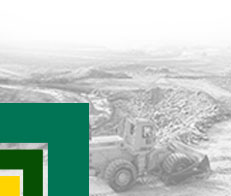
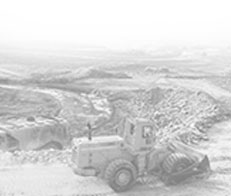
did mobile menu

Changed region(s): [[0.0, 0.5204, 0.3939, 1.0]]

diff --git a/src/style/sections/_aside.scss b/src/style/sections/_aside.scss
@@ -8,11 +8,19 @@
   @include max(700) {
     position: absolute;
     top: 0;
+    right: 0;
     left: 0;
-    transform: translate(-240px, 0);
-    &.active {
-      transform: translate(0px, 0);
+    transition: .5s;
+    width: 100%;
+    height: 60px;
+    overflow: hidden;
+    &.active{
+      height: 100vh;
     }
+    //  transform: translate(-240px, 0);
+    //  &.active {
+    //    transform: translate(0px, 0);
+    //  }
   }
 }
 .aside-open {
@@ -27,9 +35,6 @@
   cursor: pointer;
   background-color: #ffd400;
 
-  @include max(700) {
-    display: flex;
-  }
   span {
     font-family: $font-pt-b;
     font-size: 18px;
@@ -40,27 +45,39 @@
   }
 }
 .aside {
-  //position: absolute;
+  position: relative;
   z-index: 10;
-  //top: -25px;
-  //left: 10px;
   display: flex;
   flex: none;
   flex-direction: column;
   width: 240px;
   min-height: 500px;
   padding: 40px 0;
+  background: url('../img/decor-aside.jpg') 0 100% no-repeat, url('../img/bg-aside.jpg') 0 100% no-repeat/contain;
   background-color: #fff;
-  background-image: url('../img/bg-aside.jpg');
-  background-repeat: no-repeat;
-  background-position: 0 100%;
-  background-size: contain;
+
+  @include max(700) {
+    width: 100%;
+    height: 100vh;
+    padding-top: 70px;
+    text-align: center;
+  }
 }
 
 .aside-logo {
   width: 100%;
   margin-bottom: 20px;
   padding-left: 30px;
+
+  @include max(700) {
+    position: absolute;
+    top: 15px;
+    left: 20px;
+    width: 151px;
+    height: 34px;
+    padding: 0;
+    background-color: #347;
+  }
   img {
     max-width: 100%;
   }
@@ -68,6 +85,7 @@
 .aside-menu__list {
   margin: 0;
   padding: 0;
+
 }
 .aside-menu__item {
   position: relative;
@@ -88,6 +106,15 @@
   &:hover {
     &::before {
       background-color: #007454;
+
+      @include max(700) {
+        background-color: transparent;
+      }
+    }
+    .aside-menu__link {
+      @include max(700) {
+        color: #007454;
+      }
     }
   }
 }

diff --git a/src/style/elements/_burger.scss b/src/style/elements/_burger.scss
@@ -1,15 +1,14 @@
-.burger__menu {
-  font-family: $font, sans-serif;
-  font-size: 22px;
-  position: absolute;
-  top: 4px;
-  left: 50px;
-  letter-spacing: 1px;
-  color: #fafafa;
-}
 .burger {
-  width: 130px;
+  position: absolute;
+  top: 10px;
+  right: 15px;
+  width: 55px;
   height: 40px;
+  cursor: pointer;
+
+  @include min(701) {
+    display: none;
+  }
 }
 .burger input {
   display: none;
@@ -19,7 +18,6 @@
   display: block;
   width: 40px;
   height: 40px;
-  cursor: pointer;
   background: transparent;
 }
 /* Exit Icon */
@@ -32,7 +30,7 @@
   margin-top: -1px;
   content: '';
   border-radius: 2px;
-  background: #fafafa;
+  background: #007454;
 }
 .burger label:before {
   animation: animationOneReverse 1s ease forwards;
@@ -73,7 +71,7 @@
   margin-top: -1px;
   content: '';
   border-radius: 2px;
-  background: #fafafa;
+  background: #007454;
 }
 .burger label:after {
   animation: animationTwoReverse 1s ease forwards;
@@ -114,7 +112,7 @@
   content: '';
   animation: animationBurgerTopReverse 1s ease forwards;
   border-radius: 2px;
-  background: #fafafa;
+  background: #007454;
 }
 @keyframes animationBurgerTopReverse {
   0%,
@@ -157,7 +155,7 @@
   content: '';
   animation: animationBurgerBottomReverse 1s ease forwards;
   border-radius: 2px;
-  background: #fafafa;
+  background: #007454;
 }
 @keyframes animationBurgerBottomReverse {
   0%,

diff --git a/src/style/app.scss b/src/style/app.scss
@@ -6,11 +6,11 @@
 
 //elements
 // @import 'elements/breadcrumbs';
-// @import 'elements/burger';
 // @import 'elements/pagination';
 // @import 'elements/popup';
 // @import 'elements/slickBase';
  @import 'elements/btn';
+ @import 'elements/burger';
  @import 'elements/parallax';
 
 //section

diff --git a/src/js/uncompressed.js b/src/js/uncompressed.js
@@ -28,6 +28,10 @@ function pageWidget(pages) {
 // END Меню для навигации при разработке
 
 
+$('.burger input').on('click', function () {
+  $('.aside-wrap').toggleClass('active');
+});
+
 //====== Begin Programmer code ======
 
 // jquery.parallax.js
